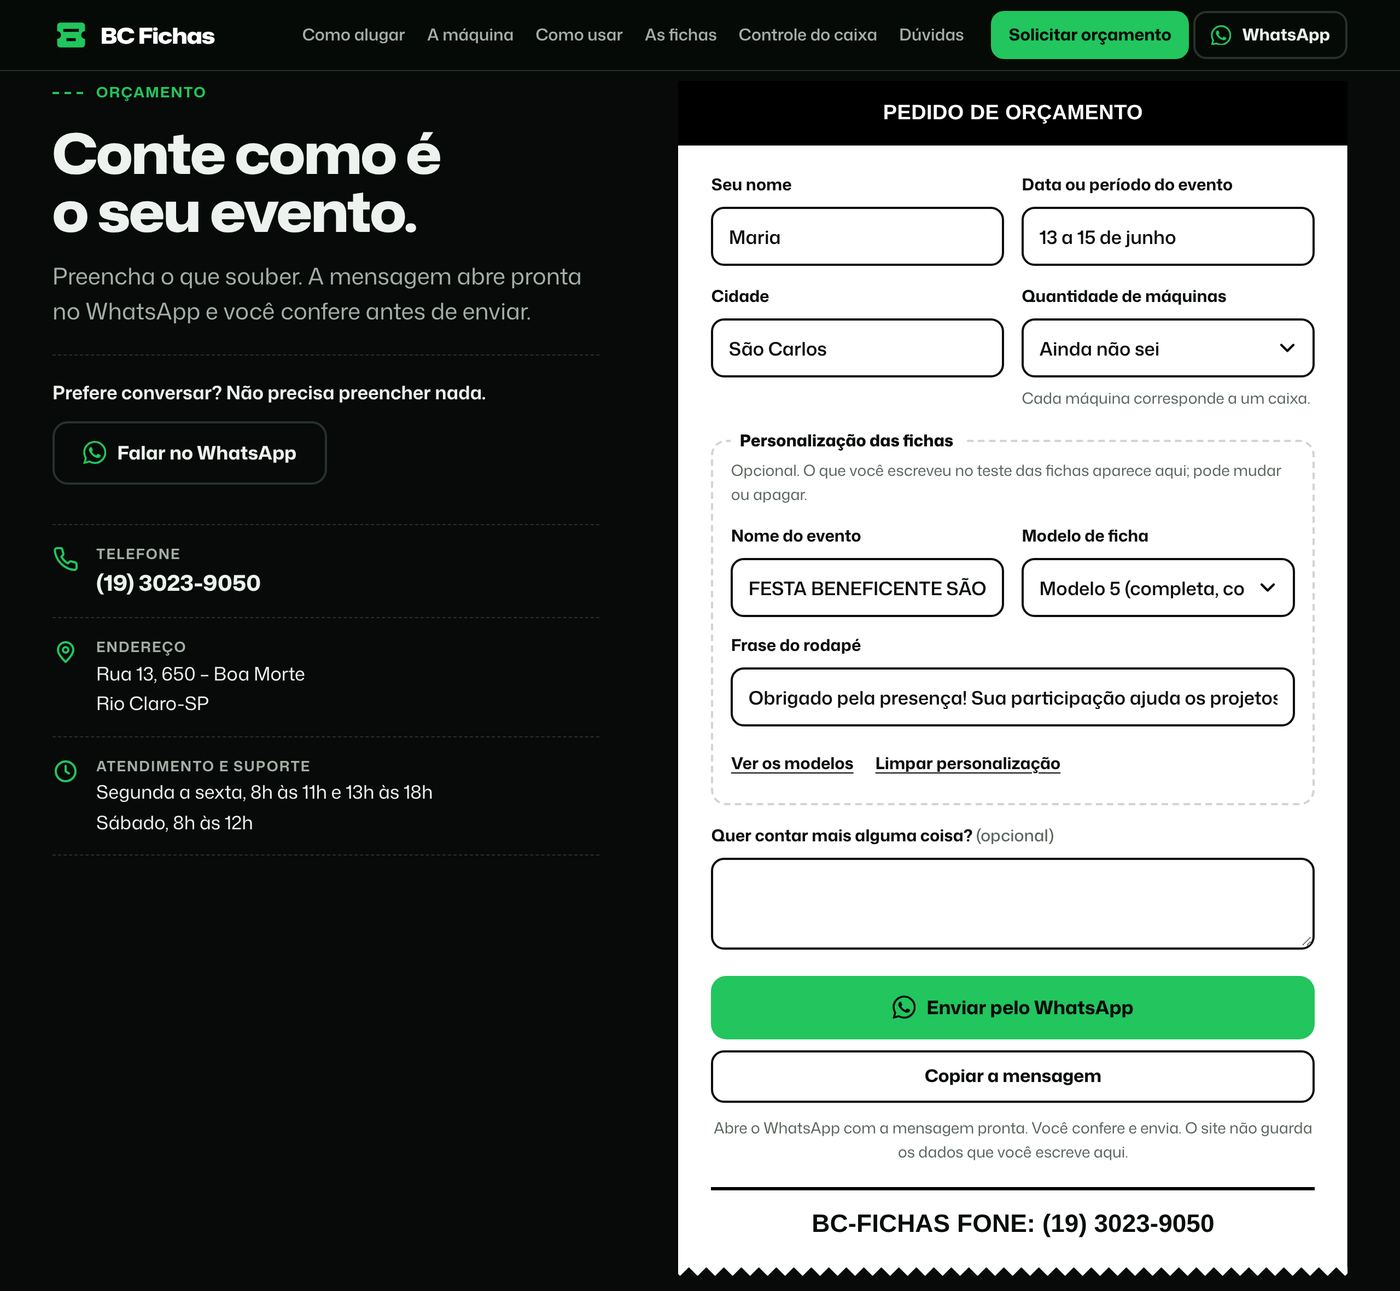
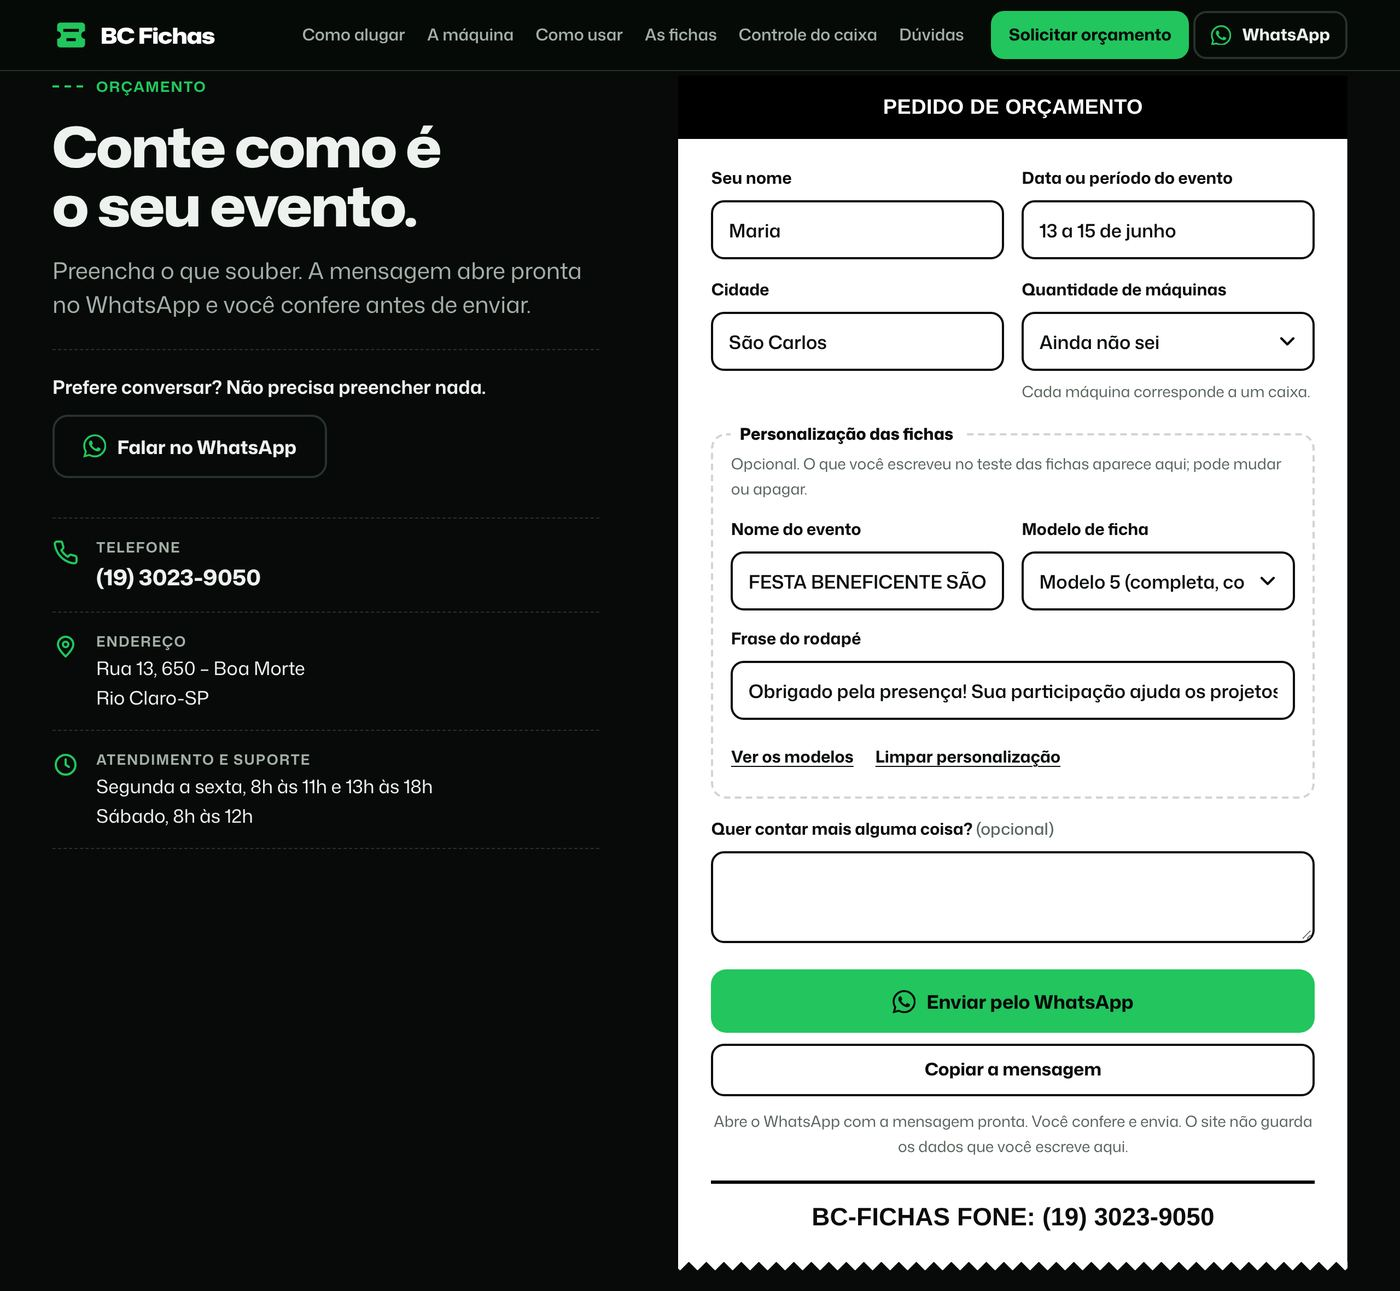
Campos do teste das fichas empilhados e logotipo de exemplo nas fichas
Pedidos do responsável (23/11/2026).

- "Nome do evento" fica em cima e "Frase do rodapé" embaixo, na ordem
  da própria ficha; em telas largas o produto de exemplo vai ao lado.
- Nos modelos com logotipo (1 a 5), a caixa tracejada deu lugar a um
  logotipo de exemplo: o símbolo da BC Fichas em preto e branco com
  "SEU LOGO", no espaço que o sistema reserva em cada modelo.

Testes refeitos: 149 verificações, axe sem problemas.

Claude-Session: https://claude.ai/code/session_01Jb1gVohqprNRxVwLM3BG3P

diff --git a/site/index.html b/site/index.html
@@ -32,7 +32,7 @@
 <link rel="preload" as="image" type="image/webp" fetchpriority="high"
       imagesrcset="img/maquina/maquina-frente-520.webp?v=2 520w, img/maquina/maquina-frente-800.webp?v=2 800w, img/maquina/maquina-frente-1200.webp?v=2 1200w"
       imagesizes="(min-width: 1000px) 50vw, 92vw">
-<link rel="stylesheet" href="css/site.css?v=10">
+<link rel="stylesheet" href="css/site.css?v=12">
 <noscript><style>:root { --f-ficha: "Ficha", Arial, "Liberation Sans", "Helvetica Neue", Helvetica, sans-serif; }</style></noscript>
 
 <script type="application/ld+json">
@@ -481,7 +481,7 @@
                   <p>PED: 9</p>
                   <p>FORMA: DINHEIRO</p>
                 </div>
-                <span class="f-logo">SEU<br>LOGO</span>
+                <span class="f-logo"><svg class="f-logo__simbolo" viewBox="3 4 18 16" aria-hidden="true"><use href="#i-ficha" width="24" height="24"/></svg><span class="f-logo__nome">SEU LOGO</span></span>
               </div>
               <p class="f-dir">CAIXA: 01</p>
               <p class="f-recado" data-recado><span class="f-l">OBRIGADO E VOLTE SEMPRE!</span></p>
@@ -499,7 +499,7 @@
           <article class="ficha ficha--m2" aria-label="Modelo 2 de ficha">
             <div class="ficha__c">
               <div class="f-linha">
-                <span class="f-logo f-logo--m2">SEU<br>LOGO</span>
+                <span class="f-logo f-logo--m2"><svg class="f-logo__simbolo" viewBox="3 4 18 16" aria-hidden="true"><use href="#i-ficha" width="24" height="24"/></svg><span class="f-logo__nome">SEU LOGO</span></span>
                 <div class="f-info f-info--centro">
                   <p class="f-evento" data-evento data-coluna="150" data-t="28"><span class="f-l">FESTA JUNINA</span></p>
                   <p data-agora="longa">02/10/2026 18:49:53</p>
@@ -530,7 +530,7 @@
                   <p>PED: 9</p>
                   <p>FORMA: DÉBITO</p>
                 </div>
-                <span class="f-logo">SEU<br>LOGO</span>
+                <span class="f-logo"><svg class="f-logo__simbolo" viewBox="3 4 18 16" aria-hidden="true"><use href="#i-ficha" width="24" height="24"/></svg><span class="f-logo__nome">SEU LOGO</span></span>
               </div>
               <p class="f-produto" data-produto data-max="124" style="--t:124"><span class="f-l">PASTEL</span></p>
               <p class="f-par f-par--forte"><span data-evento data-par="CAIXA: 02" data-t="24"><span class="f-l">FESTA JUNINA</span></span><span>CAIXA: 02</span></p>
@@ -552,7 +552,7 @@
               <p class="f-trio"><span>PED: 9</span><span data-agora="longa">02/10/2026 18:49:53</span><span>CAIXA: 01</span></p>
               <p class="f-produto" data-produto data-max="124" style="--t:124"><span class="f-l">PASTEL</span></p>
               <div class="f-linha">
-                <span class="f-logo">SEU<br>LOGO</span>
+                <span class="f-logo"><svg class="f-logo__simbolo" viewBox="3 4 18 16" aria-hidden="true"><use href="#i-ficha" width="24" height="24"/></svg><span class="f-logo__nome">SEU LOGO</span></span>
                 <div class="f-info f-info--centro">
                   <p class="f-valor-m4" data-valor>R$ 10,00</p>
                   <p class="f-forma-m4">FORMA: DINHEIRO</p>
@@ -572,7 +572,7 @@
           </div>
           <article class="ficha ficha--m5" aria-label="Modelo 5 de ficha">
             <div class="ficha__c">
-              <span class="f-logo f-logo--m5">SEU LOGO</span>
+              <span class="f-logo f-logo--m5"><svg class="f-logo__simbolo" viewBox="3 4 18 16" aria-hidden="true"><use href="#i-ficha" width="24" height="24"/></svg><span class="f-logo__nome">SEU LOGO</span></span>
               <p class="f-evento" data-evento data-linhas="2" data-t="34" style="--t:34"><span class="f-l">FESTA JUNINA</span></p>
               <hr class="f-pontilhado">
               <p class="f-produto" data-produto data-max="124" style="--t:124"><span class="f-l">PASTEL</span></p>
@@ -626,7 +626,7 @@
         </li>
       </ul>
     </div>
-    <p class="nota nota--verde">Exemplos ilustrativos dos sete modelos: os produtos e os preços são só demonstração, e o espaço do logotipo depende do formato da sua imagem. A linha com o telefone da BC Fichas sai em todas as fichas.</p>
+    <p class="nota nota--verde">Exemplos ilustrativos dos sete modelos: os produtos e os preços são só demonstração. "SEU LOGO" marca o lugar do seu logotipo, que sai em preto e branco; o espaço dele depende do formato da sua imagem. A linha com o telefone da BC Fichas sai em todas as fichas.</p>
 
     <div class="fichas__fim">
       <p class="fichas__combo"><b>Combos e vales.</b> Um único preço para um conjunto de itens, com uma ficha para cada item. Serve para um combo de bebidas ou um pacote de vales.</p>

diff --git a/site/css/site.css b/site/css/site.css
@@ -459,14 +459,23 @@ a.passo__img:hover img { scale: 1.03; }
 .f-par--forte { font-weight: 700; font-size: calc(24 * var(--u)); }
 .f-resumo { font-size: calc(21 * var(--u)); text-align: center; white-space: pre; }
 .f-linha { display: flex; align-items: center; gap: calc(14 * var(--u)); margin-top: calc(4 * var(--u)); }
+/* Exemplo de logotipo: o símbolo da BC Fichas em preto e branco, como sai na impressão, com "SEU LOGO"
+   no lugar do nome. O espaço é o que o sistema reserva em cada modelo (170×110, 150×96 e 300×150 pontos). */
 .f-logo {
-  flex: none; display: grid; place-items: center; text-align: center;
-  width: calc(170 * var(--u)); height: calc(110 * var(--u));
-  border: calc(3 * var(--u)) dashed #000; border-radius: calc(8 * var(--u));
-  font-weight: 700; font-size: calc(22 * var(--u)); line-height: 1.1; letter-spacing: 0.04em;
+  flex: none; display: grid; justify-items: center; align-content: center; gap: calc(6 * var(--u));
+  width: calc(170 * var(--u)); height: calc(110 * var(--u)); color: #000;
 }
-.f-logo--m2 { width: calc(150 * var(--u)); height: calc(96 * var(--u)); }
-.f-logo--m5 { align-self: center; width: calc(300 * var(--u)); height: calc(150 * var(--u)); margin: calc(4 * var(--u)) 0 calc(6 * var(--u)); font-size: calc(28 * var(--u)); }
+.f-logo__simbolo { display: block; width: calc(72 * var(--u)); height: calc(64 * var(--u)); }
+.f-logo__nome {
+  font-family: var(--f-texto); font-weight: 850; font-stretch: 118%; font-size: calc(22 * var(--u));
+  line-height: 1; letter-spacing: -0.02em; white-space: nowrap;
+}
+.f-logo--m2 { width: calc(150 * var(--u)); height: calc(96 * var(--u)); gap: calc(5 * var(--u)); }
+.f-logo--m2 .f-logo__simbolo { width: calc(61 * var(--u)); height: calc(54 * var(--u)); }
+.f-logo--m2 .f-logo__nome { font-size: calc(19 * var(--u)); }
+.f-logo--m5 { align-self: center; width: calc(300 * var(--u)); height: calc(150 * var(--u)); margin: calc(4 * var(--u)) 0 calc(6 * var(--u)); gap: calc(8 * var(--u)); }
+.f-logo--m5 .f-logo__simbolo { width: calc(108 * var(--u)); height: calc(96 * var(--u)); }
+.f-logo--m5 .f-logo__nome { font-size: calc(30 * var(--u)); }
 .f-info { flex: 1; min-width: 0; display: flex; flex-direction: column; font-size: calc(22 * var(--u)); line-height: 1.27; }
 .f-info--centro { align-items: center; text-align: center; }
 .f-tarja {
@@ -495,13 +504,16 @@ a.passo__img:hover img { scale: 1.03; }
 .monte__aviso { grid-column: 1 / -1; font-size: 0.9375rem; font-weight: 650; }
 .monte__aviso:empty { display: none; }
 .monte__dica { font-weight: 650; max-width: 52ch; }
+/* Os dois campos ficam um em cima do outro, na ordem da ficha: o nome do evento no alto, o rodapé embaixo.
+   Em telas largas o produto de exemplo vai para a coluna do lado. */
 @media (min-width: 700px) {
-  .monte { grid-template-columns: repeat(2, minmax(0, 1fr)); }
-  .monte__dica, .monte .chips { grid-column: 1 / -1; }
+  .monte .campo { max-width: 520px; }
 }
-@media (min-width: 1100px) {
-  .monte { grid-template-columns: minmax(0, 300px) minmax(0, 340px) minmax(0, 1fr); column-gap: 24px; }
-  .monte .chips { grid-column: auto; }
+@media (min-width: 900px) {
+  .monte { grid-template-columns: minmax(0, 480px) minmax(0, 1fr); column-gap: 40px; align-items: start; }
+  .monte__dica { grid-column: 1 / -1; }
+  .monte .campo { grid-column: 1; max-width: none; }
+  .monte .chips { grid-column: 2; grid-row: 2 / span 2; }
 }
 .campo { display: grid; gap: 8px; min-width: 0; align-content: start; }
 .campo label, .chips legend { font-size: 0.9375rem; font-weight: 700; padding: 0; }

diff --git a/site/404.html b/site/404.html
@@ -9,7 +9,7 @@
 <link rel="icon" href="/favicon.ico" sizes="32x32">
 <link rel="icon" href="/img/icone.svg" type="image/svg+xml">
 <link rel="preload" href="/fonts/mona-sans-latin.woff2" as="font" type="font/woff2" crossorigin>
-<link rel="stylesheet" href="/css/site.css?v=10">
+<link rel="stylesheet" href="/css/site.css?v=12">
 <style>
   .perdida { min-height: 100vh; min-height: 100svh; display: grid; place-items: center; padding-block: 48px; }
   .perdida__c { display: grid; gap: 28px; justify-items: center; text-align: center; }

diff --git a/docs/PENDENCIAS.md b/docs/PENDENCIAS.md
@@ -34,7 +34,7 @@ Itens da avaliação de 22/11 que não foram feitos porque precisam de material 
 | **Fotos melhores da máquina** | Uma sessão simples com a máquina limpa e **ligada**, luz difusa e o mesmo enquadramento: três quartos com a tela legível e uma ficha ao lado; detalhe da impressão e das fichas. |
 | **Vídeo curto de uma venda** | 15 a 25 segundos: tocar nos produtos, registrar o pagamento, retirar as fichas. Entra com imagem de capa, botão "Ver a máquina funcionando" e carregamento só quando a pessoa tocar. |
 | **Uso em eventos** | Fotos de eventos atendidos (com autorização de imagem) e depoimentos reais, com nome e tipo de evento. |
-| **Logotipo na prévia** | A avaliação cita como opcional deixar o visitante pôr o próprio logotipo na prévia. Não foi feito; a prioridade era a escolha do modelo e a continuidade do orçamento. |
+| **Logotipo do próprio visitante na prévia** | A avaliação cita como opcional deixar o visitante pôr o próprio logotipo na prévia. Não foi feito; hoje a prévia mostra um logotipo de exemplo ("SEU LOGO"). |
 
 ## 4. Confirmado pelo responsável (já está no site)
 
@@ -57,6 +57,7 @@ Itens da avaliação de 22/11 que não foram feitos porque precisam de material 
 | Textos retirados em 20/11 | Frase de apoio da abertura (ver item 5 acima), estimativa de público, "o teclado aparece na tela", aviso sobre as fotos e a dúvida sobre devolução de fichas | Não aparecem mais |
 | Fotos retiradas em 20/11 | Impressora aberta e saída das fichas | Não aparecem mais |
 | Contato direto | Falar no WhatsApp sem passar pelo formulário | Cabeçalho, abertura, barra do celular, menu e seção de orçamento |
+| Campos do teste das fichas | "Nome do evento" em cima e "Frase do rodapé" embaixo, como na ficha (sugestão do responsável, 23/11) | Seção das fichas |
 | Tira de fichas do passo 3 | Mostrar inteira, sem corte, com as linhas retas e sem parecer dois modelos (pedidos de 23/11) | "Como usar no evento", passo "As fichas saem na hora": duas fichas iguais, sem inclinação |
 | Retirado em 22/11 | Campo "Tipo de evento" do formulário e a linha de WhatsApp da lista de contatos (ficava repetida: já existe o botão "Falar no WhatsApp" logo acima; embaixo fica só o telefone) | Não aparecem mais |
 | Logotipo | Manter o símbolo da ficha com o nome | Cabeçalho, rodapé e ícones |
@@ -75,7 +76,7 @@ A segunda avaliação pediu que a prévia das fichas fosse conferida com o siste
 
 - **Tela montada nas fotos.** O visor estava desligado; a tela do sistema foi aplicada sobre a foto. O aviso que o site trazia sobre isso foi retirado a pedido do responsável. O ideal continua sendo fotografar a máquina **ligada**.
 - **Limpeza das fotos.** A poeira e os risquinhos das chapas foram retirados no tratamento das imagens.
-- **Fichas de exemplo:** os 7 modelos são desenhados com as medidas do sistema, com "SEU LOGO" no lugar do logotipo. O espaço real do logotipo depende do formato da imagem enviada.
+- **Fichas de exemplo:** os 7 modelos são desenhados com as medidas do sistema. No lugar do logotipo aparece o símbolo da BC Fichas em preto e branco, com "SEU LOGO" escrito, para dar uma ideia de como a ficha fica (pedido de 23/11). O espaço real do logotipo depende do formato da imagem enviada.
 
 ## 7. Ficou de fora de propósito
 

diff --git a/README.md b/README.md
@@ -70,13 +70,13 @@ As perguntas e respostas também estão repetidas no bloco `application/ld+json`
 
 **Fotos da máquina.** Ponha a foto nova em `materiais/fotos-originais/`, ajuste a lista `FOTOS` em `ferramentas/processar-fotos.py` e rode o script. Ele recorta o fundo, apaga etiquetas marcadas, limpa poeira e riscos, monta a tela do sistema no visor e grava os arquivos em `site/img/maquina/`. As instruções estão no começo do script.
 
-**Depois de mudar o CSS ou o JavaScript**, aumente o número que vem depois de `?v=` (hoje `site.css?v=10` e `site.js?v=6`) nas linhas de `site.css` e `site.js` do `index.html` e do `404.html`, para o navegador de quem já visitou buscar a versão nova.
+**Depois de mudar o CSS ou o JavaScript**, aumente o número que vem depois de `?v=` (hoje `site.css?v=12` e `site.js?v=6`) nas linhas de `site.css` e `site.js` do `index.html` e do `404.html`, para o navegador de quem já visitou buscar a versão nova.
 
 ## Como as imagens foram feitas
 
 - **Fotos da máquina:** são as fotos reais enviadas, tratadas por `ferramentas/processar-fotos.py`: o fundo (mesa) foi recortado; a etiqueta "CAIXA 2" e os dois furinhos ao lado dela foram apagados; a poeira e os risquinhos das chapas pretas foram limpos, com o preto mais fundo e neutro; e a tela do sistema foi aplicada sobre o visor, que estava desligado nas fotos. A pedido do responsável, o site não traz aviso sobre a montagem.
 - **Telas do sistema e comprovante de fechamento:** capturas reais do BC Fichas 3.11.7, com dados de teste.
-- **Fichas de exemplo:** os sete modelos reais do sistema, desenhados em HTML com as medidas e os tamanhos de letra da impressão. O nome do evento (até 40 caracteres, em maiúsculas) e a frase do rodapé (até 80, como foi digitada) mudam quando o visitante escreve; onde a impressão cortaria o texto, a prévia mostra o corte e avisa. No lugar do logotipo aparece "SEU LOGO". A prévia ainda não foi comparada com uma ficha impressa.
+- **Fichas de exemplo:** os sete modelos reais do sistema, desenhados em HTML com as medidas e os tamanhos de letra da impressão. O nome do evento (até 40 caracteres, em maiúsculas) e a frase do rodapé (até 80, como foi digitada) mudam quando o visitante escreve; onde a impressão cortaria o texto, a prévia mostra o corte e avisa. No lugar do logotipo aparece um exemplo: o símbolo da BC Fichas em preto e branco, com "SEU LOGO" escrito. A prévia ainda não foi comparada com uma ficha impressa.
 
 ## De onde vieram as informações
 
